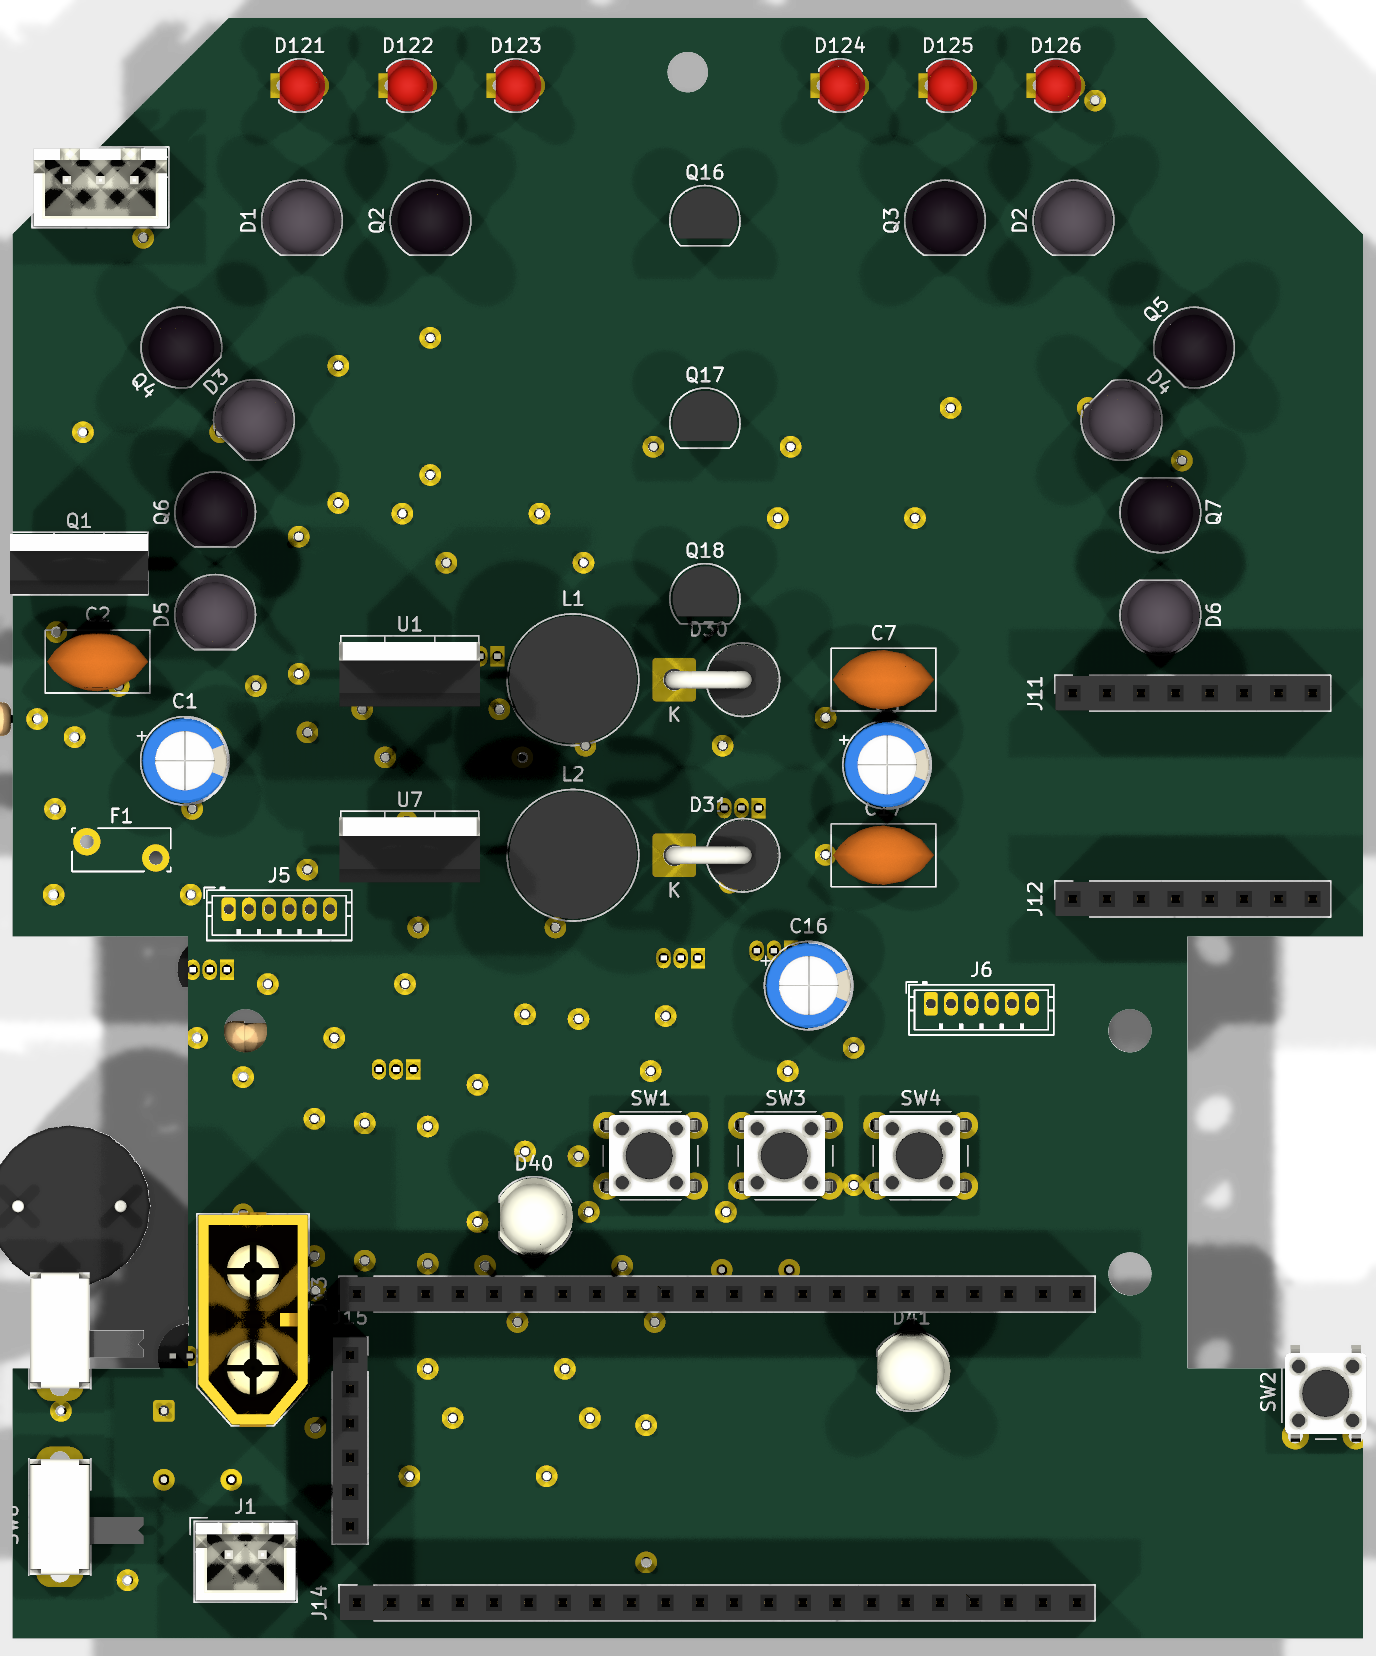
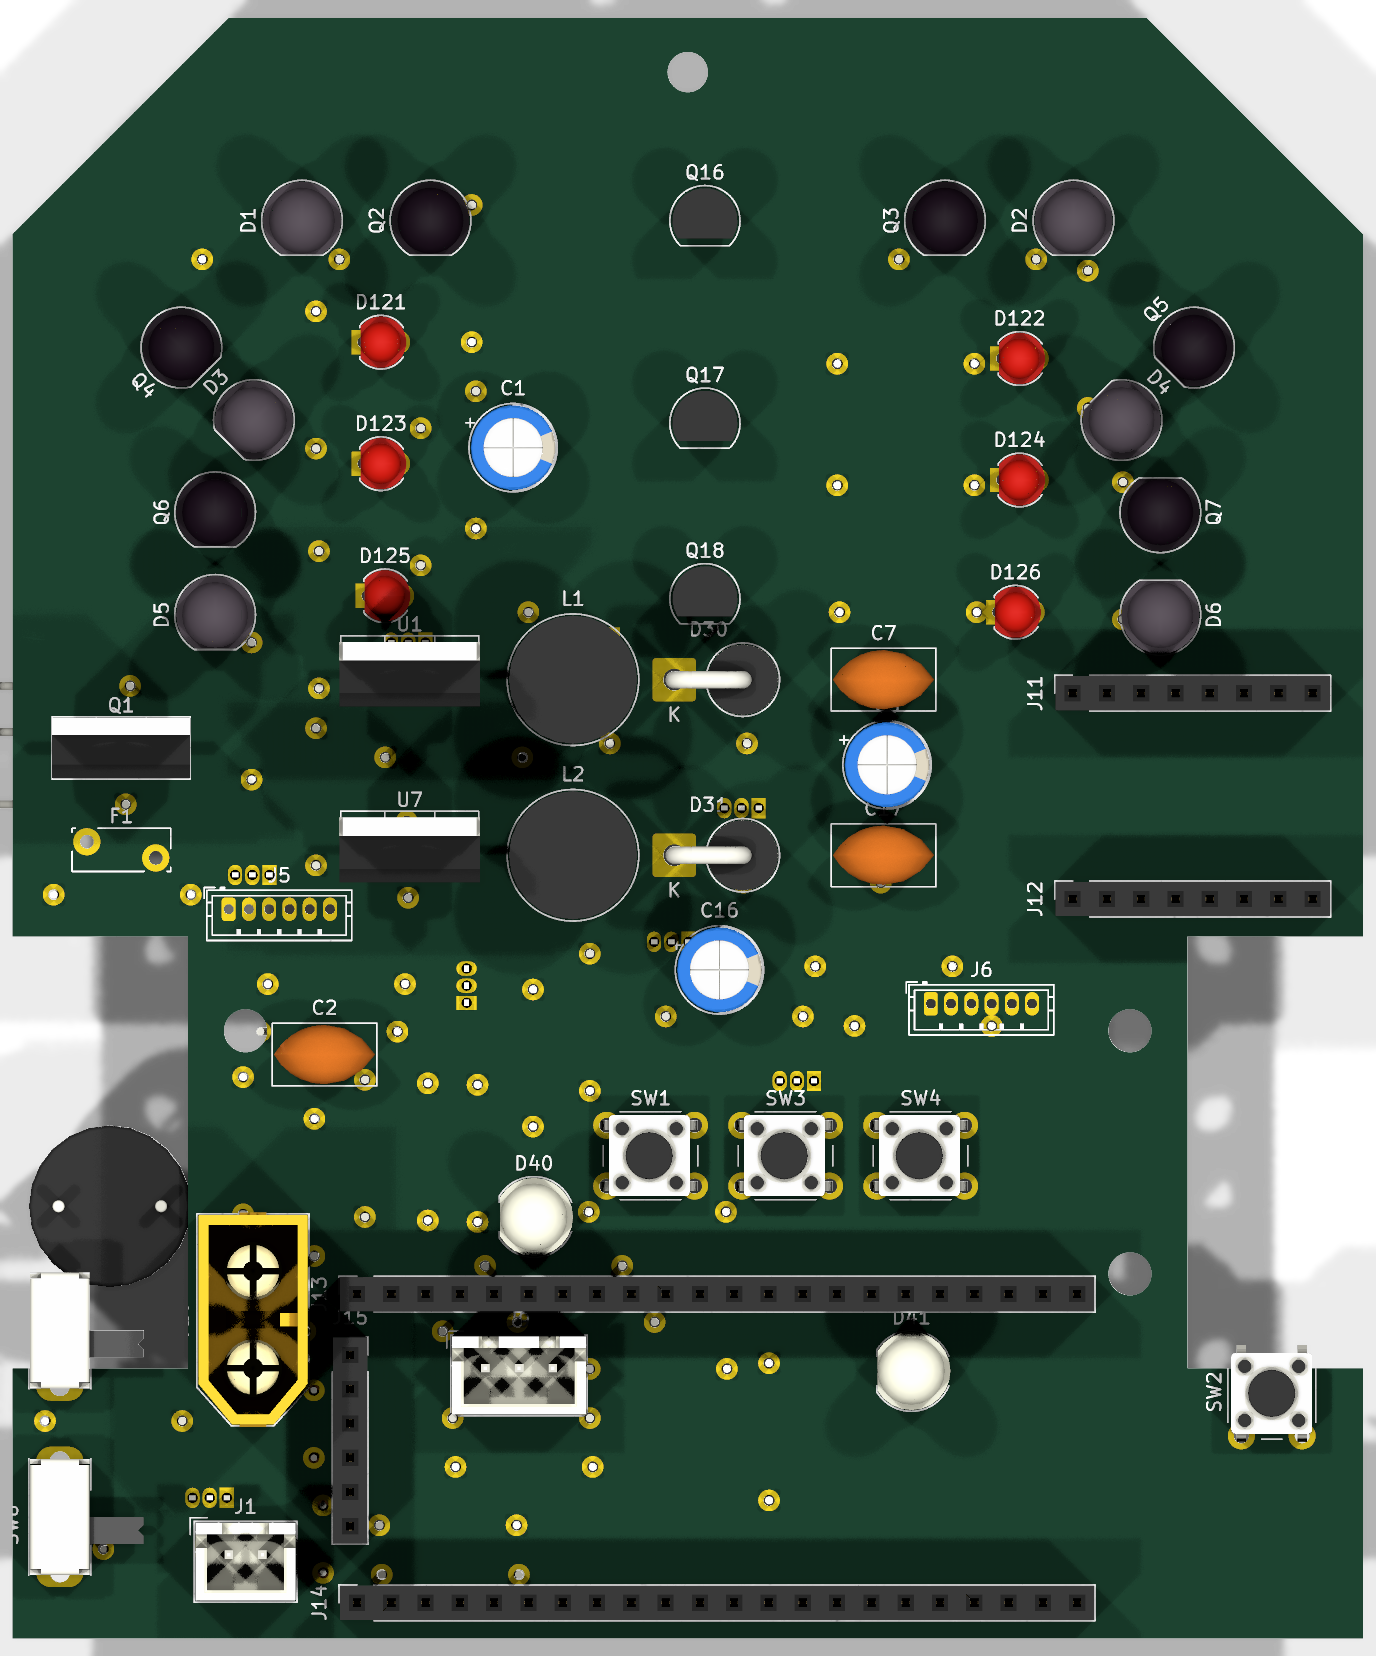
THT placement renders (top + bottom) for review -- embedded in THT README
Pre-routing placement views. Top: sensors on perimeter facing out, indicators
inboard, power block, DevKit/TB6612 sockets, buttons, RGB LEDs. Bottom: all
axial resistors + TO-92s + buzzer + flyback. For visual verification before
routing continues.

diff --git a/tht-assembly/README.md b/tht-assembly/README.md
@@ -46,6 +46,23 @@ fab + parts kit + three robu modules). Solder bottom-face resistors first
 GPIO numbers are IDENTICAL to the SMD board (same S3 silicon); flash through
 the DevKit's own USB-C.
 
+## Placement (pre-routing, for review)
+
+> These are PLACEMENT renders (no traces yet) — routing + DRC follow. Wall
+> sensors sit on the perimeter facing outward with clear IR paths; indicators
+> are inboard behind them; all support parts + both RGB drivers + the buzzer
+> are on the bottom face.
+
+**Top** — sensors (perimeter), indicators (inboard), power block, DevKit +
+TB6612 sockets, buttons, RGB LEDs:
+
+![THT placement top](images/placement_top.png)
+
+**Bottom** — axial resistors, TO-92 transistors, buzzer, flyback diode:
+
+![THT placement bottom](images/placement_bottom.png)
+
 ## Status
 See the milestone log in git (`THT assembly M1..`): schematic ERC 0 →
-placement 0-overlap → routing → DRC gate → fab package.
+placement 0-overlap + optical-clear → routing → DRC gate → fab package.
+**Current: placement complete & optically verified; routing in progress.**